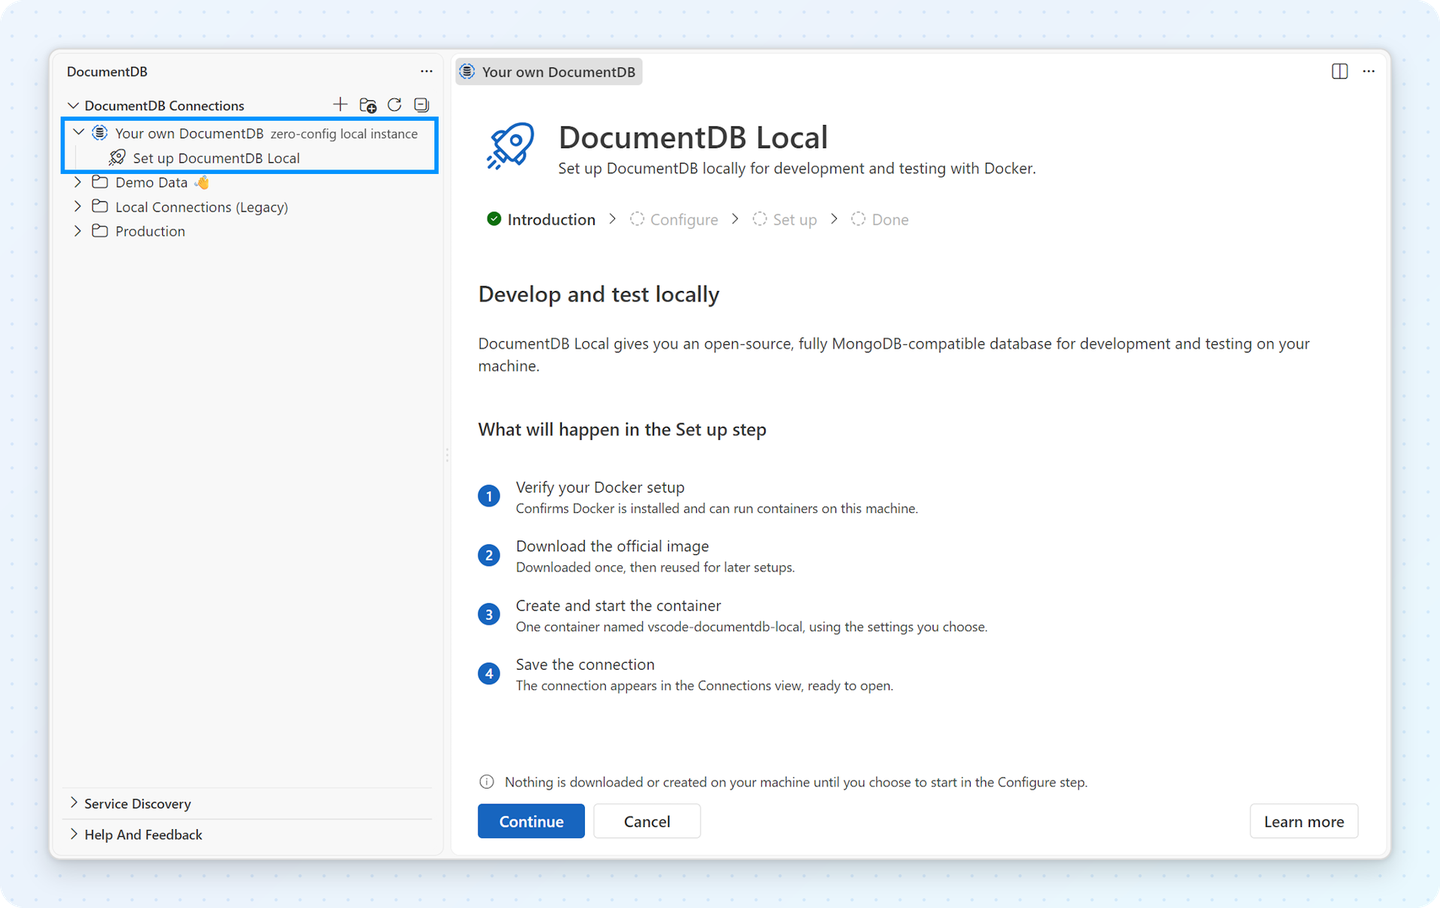
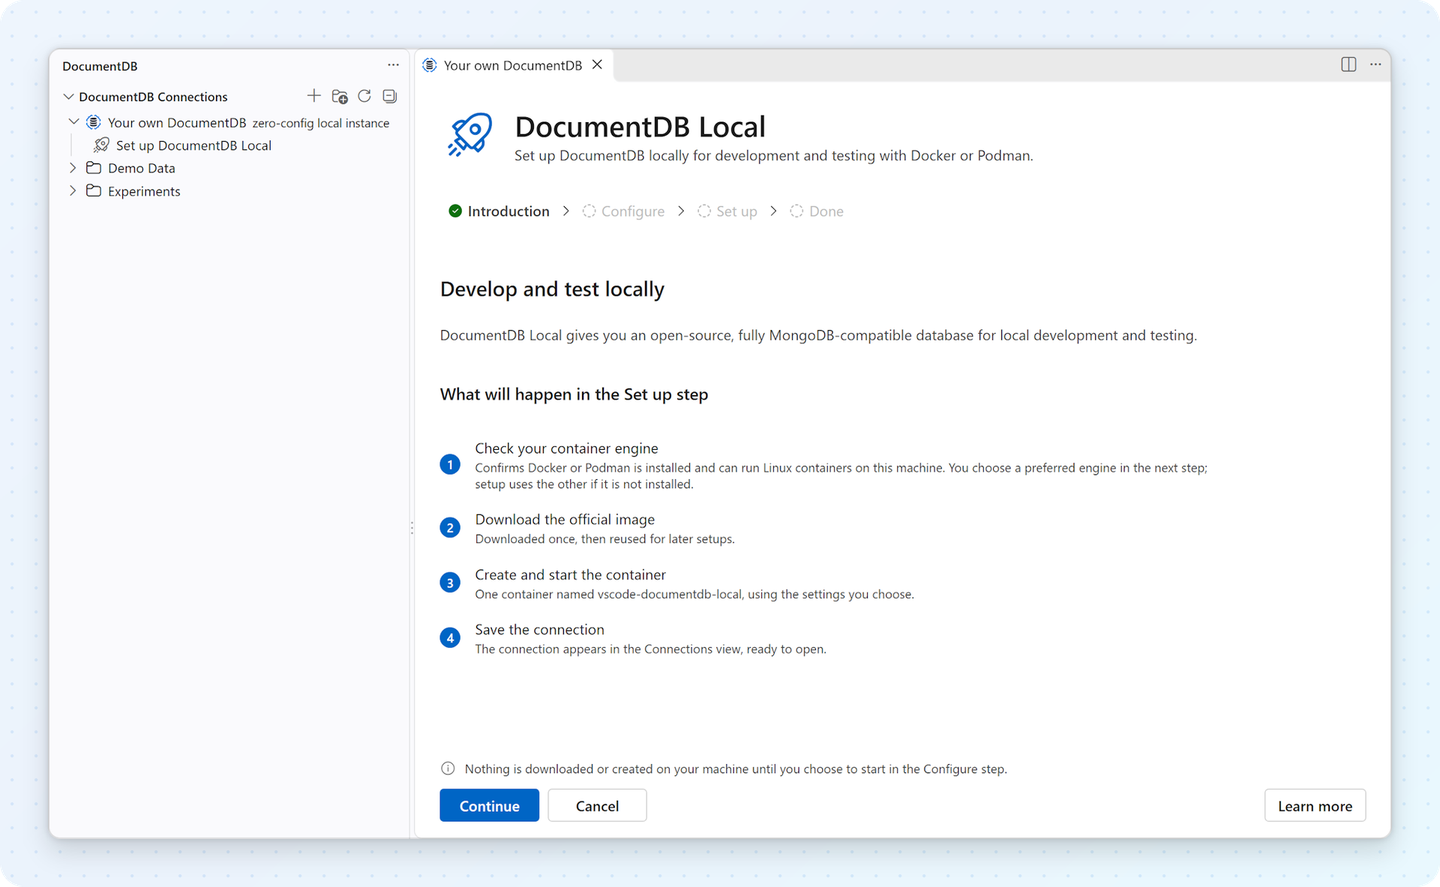
docs(local-quickstart): document Docker or Podman setup and refresh screenshots
Update the README, user manual and walkthrough for the preferred
container engine and Podman support. Add light and dark Introduction and
Configure screenshots, park a release-notes candidate in
docs/parked-images, and record the screenshot workflow in the skills.

diff --git a/docs/user-manual/local-quick-start.md b/docs/user-manual/local-quick-start.md
@@ -17,11 +17,15 @@ A fresh Configure step defaults to Docker; choose Podman there if you prefer it.
 Windows, setup can offer an explicit button to start an eligible stopped Podman machine. Creating a
 machine or choosing among ambiguous machines remains manual.
 
+<p align="center"><picture><source media="(prefers-color-scheme: dark)" srcset="./images/local-quick-start-introduction_dark.png"><img src="./images/local-quick-start-introduction.png" alt="DocumentDB Local Introduction step next to Set up DocumentDB Local in the Connections view, listing the container engine check, image download, container creation and saved connection" width="800" style="max-width:100%;height:auto;"></picture></p>
+
 1. Open the **Connections** view.
 2. Expand **Your own DocumentDB**, then select **Set up DocumentDB Local**.
 3. On the **Introduction** step, select **Continue**.
-4. On the **Configure** step, keep the Docker default or select **Podman**, then select **Start DocumentDB Local**.
+4. On the **Configure** step, keep the Docker default or choose **Podman** under **Container engine**, then select **Start DocumentDB Local**.
 5. When **DocumentDB Local is ready** appears, select **Open Connection**.
+
+<p align="center"><picture><source media="(prefers-color-scheme: dark)" srcset="./images/local-quick-start-configure_dark.png"><img src="./images/local-quick-start-configure.png" alt="DocumentDB Local Configure step with Docker selected as the preferred container engine and Podman available" width="800" style="max-width:100%;height:auto;"></picture></p>
 
 The extension generates the credentials, includes sample data, and chooses an available port. The new **DocumentDB Local** connection appears under **Your own DocumentDB**, ready to browse.
 
@@ -53,20 +57,25 @@ execution, never guessed in Configure.
 The extension never installs Docker or Podman, starts an engine automatically, runs `sudo`, changes
 group membership, or switches Docker contexts. On macOS and Windows, you can explicitly select
 **Start Podman machine** when setup identifies a stopped default machine, or the sole machine when
-none is marked default. The extension does not initialize a machine; if the selection is ambiguous,
-choose and start the intended machine manually. Linux and WSL have no machine-start button; setup
+none is marked default, provided no other machine is running or starting. The extension does not
+initialize a machine; if the selection is ambiguous, choose and start the intended machine manually.
+Linux and WSL have no machine-start button; setup
 uses the address in Podman's error to choose copy-only guidance (see
-[Linux or WSL socket access denied](#linux-or-wsl-socket-access-denied)).
+[Podman on Linux or WSL](#podman-on-linux-or-wsl)).
 If that address is on another computer, setup offers no start button on any platform.
 
-The extension host matters. In a local VS Code window, the container engine and DocumentDB Local run on your machine. In WSL, SSH, a dev container, or Codespaces, they run in that extension-host environment. In remote sessions, `localhost:10260` refers to the extension host, not necessarily your local computer.
-Remote sessions do not start a container engine on your local machine.
+The extension host matters: it runs the CLI and must be able to reach both the selected engine and
+DocumentDB's published port. The engine can run in a separate environment, such as a Podman machine
+or Docker Desktop on Windows reached from WSL. In WSL, SSH, a dev container, or Codespaces,
+`localhost:10260` refers to the extension-host environment, not necessarily your local computer.
+SSH, dev-container, Codespaces, and other remote sessions do not launch a container engine on your
+local computer.
 
 The instance tooltip names an engine only when positive evidence identifies it. When evidence identifies a Podman engine reached through the Docker CLI, the tooltip reports **Podman (through the Docker CLI)**. It shows the server version, not the CLI version. Some host error messages use neutral container-engine wording.
 
-The first setup stage heading reads **Checking container engine**, and its detail line includes
-raw CLI version output. If setup falls back, it also names the missing preferred CLI. Redesigned
-findings and engine-specific guides have not shipped yet.
+The first setup stage heading reads **Checking container engine**. Its summary identifies the
+selected CLI and its version when reported. If setup falls back, it also names the missing preferred
+CLI.
 
 The setup view shows pull, create, start, and connection-readiness progress. While pulling, one
 status line shows the known image and origin until engine output is available, then shows that
@@ -81,6 +90,9 @@ only the engine selected for this run. If setup falls back because the preferred
 the details show that result. For shortened image or container IDs, hover or focus the ID to see
 the full value. An updated image also shows its previous ID when already available. Failure
 explanations and recovery actions stay visible below the stages.
+
+If sample data could not be loaded, the success message and Details call this out. The instance is
+still ready to use; select **View setup log** for the reason.
 
 ## Port
 
@@ -144,7 +156,10 @@ Images older than 1.0-rc2, which you can pick with the image-tag setting on the 
 
 ## Container engine is not ready
 
-Readiness checks identify the selected CLI and, where positive evidence permits, the engine and platform. Use **View setup log** for command details. Use **Refresh** to run the readiness checks again.
+Readiness checks identify the selected CLI and, where positive evidence permits, the engine and
+platform. Use **View setup log** for command details. Select **Check Docker again** or **Check Podman
+again** beside the **Checking container engine** stage to recheck readiness. This does not restart
+provisioning; select **Continue setup** when offered to proceed.
 
 ### Container engine CLI not found
 
@@ -152,10 +167,12 @@ Install [Docker Engine](https://docs.docker.com/engine/install/), Docker Desktop
 [Podman](https://podman.io/docs/installation), then open **Set up DocumentDB Local** again. The
 extension uses the preferred CLI when it is on `PATH` and falls back only when that CLI is
 unavailable; if neither CLI is found, setup reports the preferred engine as missing. If a CLI
-works in a terminal but not in VS Code, confirm that the extension host inherited the same `PATH`,
-`DOCKER_HOST`, and `DOCKER_CONTEXT` configuration.
+works in a terminal but not in VS Code, confirm that the extension host inherited the same `PATH`.
+After an installation changes `PATH`, fully quit and restart VS Code; reloading the window may keep
+the old environment. For Docker, also check `DOCKER_HOST` and `DOCKER_CONTEXT`. Podman uses its own
+connection configuration, not Docker's endpoint settings.
 
-### Linux or WSL socket access denied
+### Docker socket access denied on Linux or WSL
 
 The card may offer this fixed command as copy-only text:
 
@@ -172,6 +189,10 @@ The extension never runs the command. Group changes apply only to new login sess
 
 See [Linux post-installation steps for Docker Engine](https://docs.docker.com/engine/install/linux-postinstall/) for details and security considerations.
 
+After following the guidance, select **Check Docker again**.
+
+### Podman on Linux or WSL
+
 For Podman on Linux or WSL, there is no machine-start button. Setup reads the address in Podman's
 error to decide what to suggest. When Podman could not reach its user socket, setup can offer this
 command as copy-only text:
@@ -185,11 +206,11 @@ In WSL, when Podman uses a Podman machine running on Windows, setup instead offe
 start the machine from Podman Desktop. For any other address, setup asks you to check the connection
 with `podman system connection list`.
 
-Run the command yourself, then select **Refresh**.
+Run the command yourself, then select **Check Podman again**.
 
 ### Native Docker Engine is stopped
 
-Start the system service outside the extension, then select **Retry** or **Refresh**. Depending on the Linux environment, the card may offer one of these commands as copy-only text:
+Start the system service outside the extension, then select **Check Docker again**. Depending on the Linux environment, the card may offer one of these commands as copy-only text:
 
 ```bash
 sudo systemctl start docker
@@ -210,7 +231,7 @@ If Docker Desktop is running but unavailable in a WSL distribution:
 1. Open Docker Desktop settings.
 2. Open **Resources > WSL Integration**.
 3. Enable integration for the distribution where VS Code is running.
-4. Reopen the WSL folder, open **Set up DocumentDB Local**, and select **Refresh**.
+4. Reopen the WSL folder, open **Set up DocumentDB Local**, and retry setup.
 
 See [Docker Desktop WSL integration](https://docs.docker.com/desktop/features/wsl/).
 
@@ -219,6 +240,10 @@ See [Docker Desktop WSL integration](https://docs.docker.com/desktop/features/ws
 On macOS and Windows, Podman uses a machine. If setup identifies a stopped default machine—or the
 only machine when none is marked default—it offers **Start Podman machine**. Select the button to
 start that machine, then let setup check readiness.
+
+The button is not offered if another machine is already running or starting. If the selected
+machine is already starting, setup waits for it without launching it again. **Stop waiting** cancels
+only the readiness wait, not machine startup. You can select **Check Podman again** later.
 
 If no machine exists, initialize it manually with `podman machine init`, then start it with
 `podman machine start`. If several machines exist and none is marked default, setup offers no
@@ -241,7 +266,7 @@ platform default endpoint, in that order. It never changes the selected context.
 ### Linux containers required
 
 DocumentDB Local requires a Linux-container engine. If a reachable Windows Docker daemon reports
-Windows-container mode, switch Docker to Linux containers and select **Retry**.
+Windows-container mode, switch Docker to Linux containers and select **Check Docker again**.
 
 ## Recovery during setup
 

diff --git a/.github/skills/documentation-screenshots/SKILL.md b/.github/skills/documentation-screenshots/SKILL.md
@@ -25,19 +25,28 @@ Generated graphics (hero images, diagrams) are not framed, but they get the same
    - **Dark**: dark-themed sites, such as the documentdb.io blog. See [Dark Theme](#dark-theme).
    - **Both**: render each image twice, from the same originals.
 
-1. **Collect captures.** Capture VS Code in the light theme at about **1920 px wide** (Windows at 125% scaling gives about 1920 x 1160). Cropped captures of a tree, dialog or quick pick are fine. Blue highlight rectangles drawn in the capture are kept as captured. Use light-theme captures for both themes.
+1. **Collect captures.** Capture VS Code in the light theme at about **1920 px wide** (Windows at 125% scaling gives about 1920 x 1160). Cropped captures of a tree, dialog or quick pick are fine. Blue highlight rectangles drawn in the capture are kept as captured. Use light-theme captures for both themes unless the operator supplies a matching dark VS Code capture for the dark output.
 2. **Name them** `{version}_{feature_name}.png` (snake_case), using the version of the release that shows them, for example `1.0.0_query_playground.png`. Never reuse a name that already exists in the target `images/` folder: older release notes link to those files. Dark-theme output gets a `_dark` suffix automatically (`1.0.0_query_playground_dark.png`), so both versions can live side by side.
 3. **Keep the originals.** Put untouched captures in an `originals/` folder next to the jobs file, outside the committed `images/` folder (keep them locally or in a gitignored scratch folder such as `docs/plan/`). Only framed output is committed. Never edit originals.
 4. **Write a jobs file** (see [references/example-jobs.json](./references/example-jobs.json)). `src` and `out` are relative to the jobs file.
 5. **Pilot one image**, show it to the operator, and agree on the look before running the rest. Ask for approval image by image for small crops and annotated images.
 6. **Run** `python .github/skills/documentation-screenshots/scripts/frame.py path/to/jobs.json` (or add file names to run a subset). Each image takes about 5 seconds. For the dark theme, add `--theme dark` before the jobs file, or set `"theme": "dark"` in the jobs file.
+   With separate light and dark captures, use two jobs files with matching job names: one points
+   `src` at the light captures and sets `"theme": "light"`; the other points `src` at the dark
+   captures and sets `"theme": "dark"`.
 7. **Reference the images** in Markdown. Every framed image is 1920 px wide, so all use the same display width:
 
    ```markdown
    <p align="center"><img src="./images/X.Y.Z_feature_name.png" alt="Describe what the image shows" width="800" style="max-width:100%;height:auto;"></p>
    ```
 
-8. **Verify** every image reference resolves, and delete preview and temporary files.
+8. **Park ready images with no current destination** in `docs/parked-images/` and add them to its
+   README. When one is used, move it to the destination and remove it from the README.
+9. **Verify** every image reference resolves, and delete preview and temporary files.
+
+For walkthrough images in `resources/walkthroughs/`, frame at 1920 px, then use Lanczos to resize
+to **1440 px wide**. For themed walkthrough media, provide `light`, `dark`, `hc` and `hcLight`
+paths; reuse the dark image for `hc` and the light image for `hcLight`.
 
 Preview tip: render previews to a new file name each time (`_preview_a.png`, `_preview_b.png`), because image viewers cache by path. To check the transparent corners, preview on a dark background.
 
@@ -114,7 +123,8 @@ For sites with a dark design, such as the documentdb.io blog, bright framed imag
 
 - Screenshots are **not** dimmed, tinted or inverted. Tests showed that lowering the white point turns white UI into a dull grey and the result looks washed out, while a light screenshot on a dark frame looks natural.
 - Card radius, hairline border, shadow, badges, arrows and the white legend cards.
-- Captures are still taken in the light VS Code theme.
+- Captures are taken in the light VS Code theme by default. If the operator supplies a matching dark
+  VS Code capture, use it for the dark output.
 
 ### Illustrations with their own background
 
@@ -203,3 +213,4 @@ Hero images, diagrams and other rendered graphics are not framed. After renderin
 - [ ] Badges and arrows don't cover UI text or icons
 - [ ] All images referenced with `width="800"` and descriptive alt text (plain Markdown images on documentdb.io)
 - [ ] Every image reference resolves; preview files deleted
+- [ ] Ready images with no current destination are parked and listed in `docs/parked-images/README.md`

diff --git a/docs/ai-and-plans/features/local-quickstart/README.md b/docs/ai-and-plans/features/local-quickstart/README.md
@@ -52,6 +52,21 @@ regular new-connection wizard instead ([0001](./decisions.md#0001--single-manage
 - [docs/user-manual/local-quick-start.md](../../../user-manual/local-quick-start.md)
 - [docs/user-manual/local-connection-documentdb-local.md](../../../user-manual/local-connection-documentdb-local.md)
 
+### Screenshot status for the Podman stack (#1065, #1072, #1076)
+
+- **Updated:** the [walkthrough image](../../../../resources/walkthroughs/documentdb-local.png) and
+  its [dark variant](../../../../resources/walkthroughs/documentdb-local_dark.png) now show the
+  Docker or Podman introduction.
+- **Added:** the [setup guide](../../../user-manual/local-quick-start.md) now shows the Introduction
+  step and the Configure step with the Container engine choice, in light and dark mode.
+- **Parked:** the same Configure screenshot is listed in
+  [parked images](../../../parked-images/README.md) as a release-notes candidate.
+- **Still useful:** a Set up or Done capture with Details expanded would illustrate the new evidence
+  rows.
+- The root README's images and the manual-connection picker images do not show the changed setup
+  controls and need no update for this stack. Historical release notes and the dated 1.0 blog
+  announcement are left unchanged.
+
 ## Related skills
 
 - [.github/skills/error-translation](../../../../.github/skills/error-translation/SKILL.md) —
@@ -69,8 +84,8 @@ regular new-connection wizard instead ([0001](./decisions.md#0001--single-manage
 - **Engine readiness is a setup stage, not a separate concept.** The wizard runs
   `Introduction → Configure → Set up → Done`; the stage 1 heading is `Checking container engine`
   ([0003](./decisions.md#0003--concept-f-docker-verified-as-the-first-setup-stage)). Redesigned
-  findings and engine-specific guides are pending W5; the detail includes raw CLI version output
-  and names the missing preferred CLI when setup falls back.
+  findings and engine-specific guides are partially implemented; the summary identifies the selected
+  CLI and its reported version and names the missing preferred CLI when setup falls back.
 - **Settled setup stages offer evidence in Details.** Rows with facts start collapsed on both Set up
   and Done and have concise factual summaries; explanations and recovery actions remain in the
   failure block. Full image and container IDs are available through mouse and keyboard tooltips.
@@ -164,5 +179,6 @@ settled setup stages (0008), preferred-engine ownership and platform-gated Podma
 3. [decisions.md](./decisions.md) — why the model is what it is
 
 `design-iteration-1.md` and implemented or superseded iterations are history. Read a specific
-iteration only when you need provenance for a particular behavior. Iteration 12 is an approved,
-not-yet-implemented plan; its intended behavior must not be mistaken for current product behavior.
+iteration only when you need provenance for a particular behavior. Iteration 12 records the
+implemented preferred-engine plan and its verification; the code remains authoritative for current
+product behavior.

diff --git a/README.md b/README.md
@@ -32,7 +32,7 @@ Connect to your databases, explore your data, run and tune queries, and move col
 
 ## Connect in Seconds, Wherever Your Data Lives
 
-- **No database yet?** Select **Set up DocumentDB Local** and the extension starts [DocumentDB](https://documentdb.io) in Docker for you, with a persistent volume, generated credentials and optional sample data. No `docker run` command to assemble. [Learn more](https://microsoft.github.io/vscode-documentdb/user-manual/local-quick-start)
+- **No database yet?** Select **Set up DocumentDB Local** and the extension starts [DocumentDB](https://documentdb.io) in Docker or Podman for you, with a persistent volume, generated credentials and optional sample data. Choose your container engine in Configure; no `docker run` or `podman run` command to assemble. [Learn more](https://microsoft.github.io/vscode-documentdb/user-manual/local-quick-start)
 - **On Azure?** Browse your Azure DocumentDB clusters and Azure Cosmos DB for MongoDB (RU) accounts across accounts, tenants and subscriptions, and sign in with **Microsoft Entra ID** or a managed identity. They also show up in the Azure Resources view. [Learn more](https://microsoft.github.io/vscode-documentdb/user-manual/service-discovery)
 - **On MongoDB Atlas?** Sign in with an Atlas service account or API key and pick a cluster from your organizations and projects instead of copying endpoints. [Learn more](https://microsoft.github.io/vscode-documentdb/user-manual/service-discovery-mongodb-atlas)
 - **In Kubernetes?** DocumentDB clusters on AKS, EKS, GKE, kind, minikube or Docker Desktop are found from your kubeconfig, and port forwarding is handled for you. [Learn more](https://microsoft.github.io/vscode-documentdb/user-manual/service-discovery-kubernetes)
@@ -80,7 +80,7 @@ Everything happens in the open on [GitHub](https://github.com/microsoft/vscode-d
 
 # Prerequisites
 
-No external tools or runtimes are required. Install the extension and start working. Only DocumentDB Local needs Docker (Docker Engine or Docker Desktop).
+No external tools or runtimes are required to connect to an existing database. Setting up DocumentDB Local requires Docker (Docker Engine or Docker Desktop) or Podman, with a CLI available to the VS Code extension host and an engine running Linux containers. See the [setup requirements](https://microsoft.github.io/vscode-documentdb/user-manual/local-quick-start#container-engine-requirement).
 
 <!-- region exclude-from-marketplace -->
 

diff --git a/docs/parked-images/README.md b/docs/parked-images/README.md
@@ -1,0 +1,20 @@
+# Parked images
+
+Framed screenshots that are ready to use but are not referenced by documentation, release notes,
+walkthroughs or blog posts yet. This folder is excluded from the documentation site.
+
+## Rules
+
+- Store only finished framed images. Keep raw captures and jobs files in a gitignored scratch folder
+  such as `docs/plan/`.
+- Name parked images in snake_case without a version, for example `feature_name.png`. Keep the
+  matching dark-site image beside it as `feature_name_dark.png`.
+- When an image is used, move it to its destination and remove its row from this table. For release
+  notes, rename it to `{version}_{feature_name}.png` in `docs/release-notes/images/`.
+- Don't reference files from this folder in published content.
+
+## Images
+
+| Image                                                                                                                                         | Shows                                                                       | Intended use                                         | Parked     |
+| --------------------------------------------------------------------------------------------------------------------------------------------- | --------------------------------------------------------------------------- | ---------------------------------------------------- | ---------- |
+| [`local_quick_start_container_engine.png`](./local_quick_start_container_engine.png) ([dark](./local_quick_start_container_engine_dark.png)) | Local Quick Start Configure step with the preferred Docker or Podman choice | Release notes for Docker and Podman engine selection | 2026-11-12 |

diff --git a/docs/user-manual/local-connection-documentdb-local.md b/docs/user-manual/local-connection-documentdb-local.md
@@ -8,9 +8,9 @@ nav_order: 3
 
 The **DocumentDB Local** option helps you work with a local DocumentDB instance for development, prototyping, and testing.
 
-Use [Set up DocumentDB Local](./local-quick-start) when you want the extension to create and manage the official container. The setup supports Docker Engine and Docker Desktop. It requires a Docker CLI that the VS Code extension host can use to reach a Linux-container Docker daemon.
+Use [Set up DocumentDB Local](./local-quick-start) when you want the extension to create and manage the official container. The setup supports Docker (Docker Engine or Docker Desktop) and Podman. It requires a Docker or Podman CLI that the VS Code extension host can use to reach an engine running Linux containers. Choose your preferred engine on the **Configure** step.
 
-Use the manual connection flow when DocumentDB Local is already running and you only need to save its connection details.
+Use the manual connection flow when DocumentDB Local is already running and you only need to save its connection details. This flow does not require either CLI and does not make the extension manage the existing container.
 
 ## How to Use
 

diff --git a/.github/skills/writing-release-notes/SKILL.md b/.github/skills/writing-release-notes/SKILL.md
@@ -62,11 +62,14 @@ operator already answered this in the current request.
 
 Suggested question: **Will this release include any screenshots?**
 
-If screenshots are planned, the operator provides the raw captures. Frame them with the
+If screenshots are planned, check [`docs/parked-images/README.md`](../../../docs/parked-images/README.md)
+for ready images. Otherwise, the operator provides the raw captures. Frame them with the
 [documentation-screenshots](../documentation-screenshots/SKILL.md) skill so they match the
 existing release notes (brand background, consistent text size, numbered steps where needed).
 Store the framed images under `docs/release-notes/images/` using `{version}_{feature_name}.png`
 and reference them using the markup in [RELEASE-NOTES-FORMAT.md](./RELEASE-NOTES-FORMAT.md).
+When using a parked image, move it into the release-notes image folder, add the version prefix and
+remove its row from the parked-images README.
 Do not add image placeholders.
 
 ### Step 2: Determine Version Type

diff --git a/docs/user-manual/local-connection.md b/docs/user-manual/local-connection.md
@@ -16,7 +16,7 @@ The **DocumentDB extension for Visual Studio Code** allows you to connect to loc
 You have two main options for connecting to a local instance:
 
 - **Set up DocumentDB Local:**
-  [Create and manage the official DocumentDB Local container](./local-quick-start) with Docker Engine or Docker Desktop.
+  [Create and manage the official DocumentDB Local container](./local-quick-start) with Docker (Docker Engine or Docker Desktop) or Podman.
 
 - **Use Preconfigured Options:**
   The extension provides ready-to-use configurations for popular local setups:
